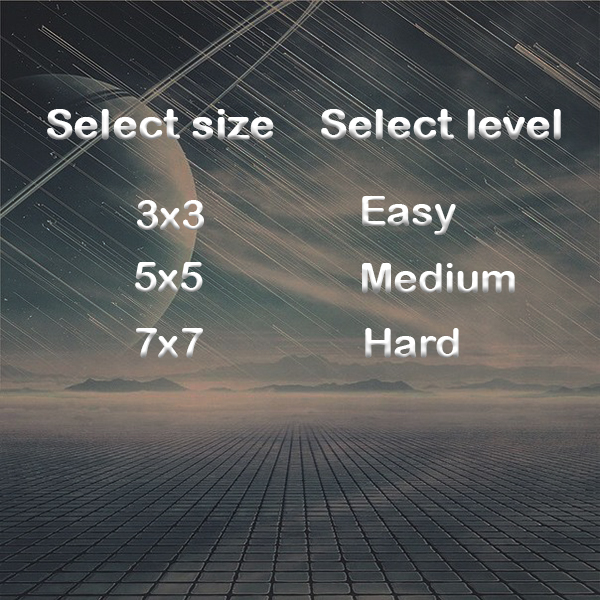
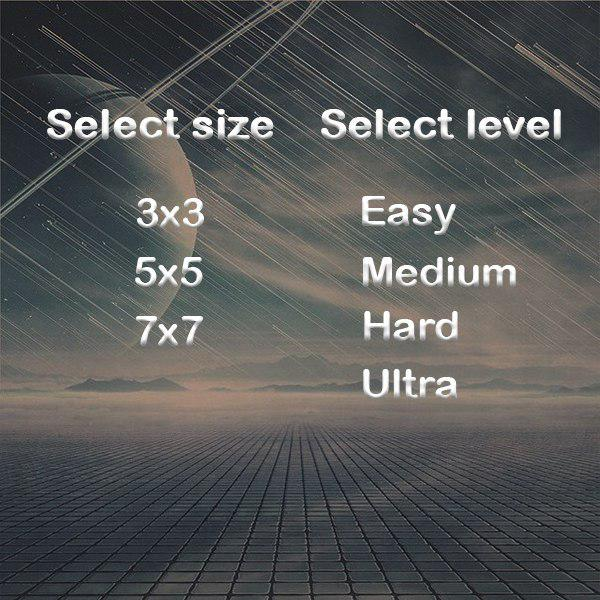
AI v. 1.0

diff --git a/src/tictactoe/view/PvMMenu.java b/src/tictactoe/view/PvMMenu.java
@@ -12,6 +12,7 @@ public class PvMMenu extends JPanel {
     public JRadioButton easy;
     public JRadioButton medium;
     public JRadioButton hard;
+    public JRadioButton ultra;
     private JButton playPvM;
     private JButton settings;
     private JButton music;
@@ -35,7 +36,7 @@ public class PvMMenu extends JPanel {
         c.fill = GridBagConstraints.NONE;
         c.gridx = 2;
         c.gridy = 0;
-        c.insets = new Insets(-200, 90, 0, -155);
+        c.insets = new Insets(-150, 90, 0, -155);
         c.anchor = GridBagConstraints.NORTHEAST;
         add(settings, c);
 
@@ -46,7 +47,7 @@ public class PvMMenu extends JPanel {
         c.fill = GridBagConstraints.NONE;
         c.gridx = 2;
         c.gridy = 1;
-        c.insets = new Insets(-140, 90, 0, -155);
+        c.insets = new Insets(-90, 90, 0, -155);
         c.anchor = GridBagConstraints.NORTHEAST;
         music.setVisible(false);
         add(music, c);
@@ -58,7 +59,7 @@ public class PvMMenu extends JPanel {
         c.fill = GridBagConstraints.NONE;
         c.gridx = 2;
         c.gridy = 2;
-        c.insets = new Insets(-80, 90, 0, -155);
+        c.insets = new Insets(-30, 90, 0, -155);
         c.anchor = GridBagConstraints.NORTHEAST;
         mainM.setVisible(false);
         add(mainM, c);
@@ -70,7 +71,7 @@ public class PvMMenu extends JPanel {
         c.fill = GridBagConstraints.NONE;
         c.gridx = 2;
         c.gridy = 2;
-        c.insets = new Insets(-20, 90, -5, -155);
+        c.insets = new Insets(30, 90, -5, -155);
         c.anchor = GridBagConstraints.NORTHEAST;
         exit.setVisible(false);
         add(exit, c);
@@ -84,7 +85,7 @@ public class PvMMenu extends JPanel {
         c.fill = GridBagConstraints.NONE;
         c.gridx = 1;
         c.gridy = 2;
-        c.insets = new Insets(0, -70, 40, 30);
+        c.insets = new Insets(40, -70, 40, 30);
         c.anchor = GridBagConstraints.WEST;
         add(three, c);
         selectSize.add(three);
@@ -114,13 +115,13 @@ public class PvMMenu extends JPanel {
         ButtonGroup selectDifficulty = new ButtonGroup();
 
         easy = new JRadioButton();
-        easy.setBackground(new Color(90, 96, 92));
+        easy.setBackground(new Color(117, 111, 99));
         easy.setSelected(true);
         easy.setBorder(null);
         c.fill = GridBagConstraints.NONE;
         c.gridx = 2;
         c.gridy = 2;
-        c.insets = new Insets(0, 150, 40, 0);
+        c.insets = new Insets(40, 150, 40, 0);
         c.anchor = GridBagConstraints.WEST;
         add(easy, c);
         selectDifficulty.add(easy);
@@ -147,6 +148,17 @@ public class PvMMenu extends JPanel {
         add(hard, c);
         selectDifficulty.add(hard);
 
+        ultra = new JRadioButton();
+        ultra.setBackground(new Color(106, 103, 98));
+        ultra.setBorder(null);
+        c.fill = GridBagConstraints.NONE;
+        c.gridx = 2;
+        c.gridy = 5;
+        c.insets = new Insets(5, 150, 40, 0);
+        c.anchor = GridBagConstraints.WEST;
+        add(ultra, c);
+        selectDifficulty.add(ultra);
+
         playPvM = new JButton();
         playPvM.setIcon(AllImages.play);
         playPvM.setPreferredSize(new Dimension(playPvM.getIcon().getIconWidth(), playPvM.getIcon().getIconHeight()));
@@ -154,7 +166,7 @@ public class PvMMenu extends JPanel {
         c.fill = GridBagConstraints.NONE;
         c.gridwidth = 2;
         c.gridx = 1;
-        c.gridy = 5;
+        c.gridy = 6;
         c.insets = new Insets(50, 0, -120, 0);
         c.anchor = GridBagConstraints.CENTER;
         add(playPvM, c);

diff --git a/src/tictactoe/model/PvMGameProcess.java b/src/tictactoe/model/PvMGameProcess.java
@@ -26,6 +26,7 @@ public class PvMGameProcess {
     private static Bot boteasy;
     private static Bot botmid;
     private static Bot bothard;
+    private static Bot botultr;
 
     public PvMGameProcess(int fieldSize, int difficulty) {
         this.fieldSize = fieldSize;
@@ -35,6 +36,7 @@ public class PvMGameProcess {
         boteasy = new EasyBot(fieldSize, difficulty, turn == 0 ? 1 : 2);
         botmid = new MediumBot(fieldSize, difficulty, turn == 0 ? 1 : 2);
         bothard = new HardBot(fieldSize, difficulty, turn == 0 ? 1 : 2);
+        botultr = new UltrBot(fieldSize, difficulty, turn == 0 ? 1 : 2);
         System.out.println(turn + " turn");
         player = turn == 0 ? false : true;
         comp = turn == 0 ? true : false;
@@ -50,8 +52,11 @@ public class PvMGameProcess {
             boteasy.HitBot();
         else if (difficulty == 2) {
             botmid.HitBot();
-        } else
+        } else if (difficulty == 3)
             bothard.HitBot();
+        else{
+            botultr.HitBot();
+        }
         ChangeColor.ChangePvMTextColor(false);
     }
 
@@ -99,6 +104,7 @@ public class PvMGameProcess {
         boteasy = new EasyBot(fieldSize, difficulty, turn == 0 ? 1 : 2);
         botmid = new MediumBot(fieldSize, difficulty, turn == 0 ? 1 : 2);
         bothard = new HardBot(fieldSize, difficulty, turn == 0 ? 1 : 2);
+        botultr = new UltrBot(fieldSize, difficulty, turn == 0 ? 1 : 2);
         player = turn == 0 ? false : true;
         comp = turn == 0 ? true : false;
         if (comp) {
@@ -106,8 +112,10 @@ public class PvMGameProcess {
                 boteasy.HitBot();
             else if (difficulty == 2) {
                 botmid.HitBot();
-            } else
+            } else if (difficulty == 3)
                 bothard.HitBot();
+            else
+                botultr.HitBot();
         }
     }
 

diff --git a/src/tictactoe/view/GameFrame.java b/src/tictactoe/view/GameFrame.java
@@ -524,8 +524,10 @@ public class GameFrame extends JFrame {
                     difficulty = 1;
                 else if (pvmMenu.medium.isSelected())
                     difficulty = 2;
-                else
+                else if (pvmMenu.hard.isSelected())
                     difficulty = 3;
+                else
+                    difficulty = 4;
                 gameField = new GamePanel(bgforfield, fieldSize, difficulty, 2);
                 gameField.GetSettings().addActionListener(new ActionListener() {
 
